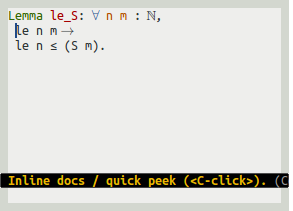
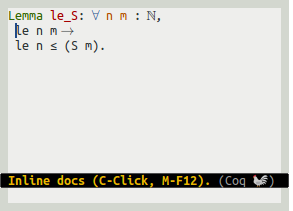
inline-docs: Add M-F12 as an alternative keybinding
Solves two issues:

* Users of keyboard with no <menu> key had to use the mouse (C-click)
* Users of Aquamacs can't use C-click (fixes #65)

Changed region(s): [[0.3072, 0.8246, 1.0, 0.91]]

diff --git a/README.md b/README.md
@@ -69,7 +69,7 @@ Loading `company-coq` also binds the following keys:
 * <kbd>M-RET</kbd> inserts a new `match` case (`| _ => _`).
 * <kbd>M-S-RET</kbd> inserts a new `match goal` rule (`| [ H: _ |- _ ] => _`).
 * <kbd>C-c C-a C-x</kbd> extracts the current goal into a separate lemma.
-* <kbd>C-down-mouse-1</kbd> (i.e. <kbd>C-click</kbd>) shows an inline quick help box for the identifier under point. The box disappears when the mouse is released. Pressing the <kbd>&lt;menu></kbd> key also works.
+* <kbd>C-down-mouse-1</kbd> (i.e. <kbd>C-click</kbd>) shows an inline quick help box for the identifier under point. The box disappears when the mouse is released. Pressing the <kbd>&lt;menu></kbd> key or <kbd>M-F12</kdb> also works.
 * <kbd>M-.</kbd> jumps to the source of the identifier at point, when available.
 * <kbd>C-c C-p</kbd> opens the documentation of the identifier at point (for theorems, and definitions; for tactics, use <kbd>C-h</kbd> during completion).
 * <kbd>C-c C-,</kbd> opens an outline of the code in a separate buffer (using `occur`).
